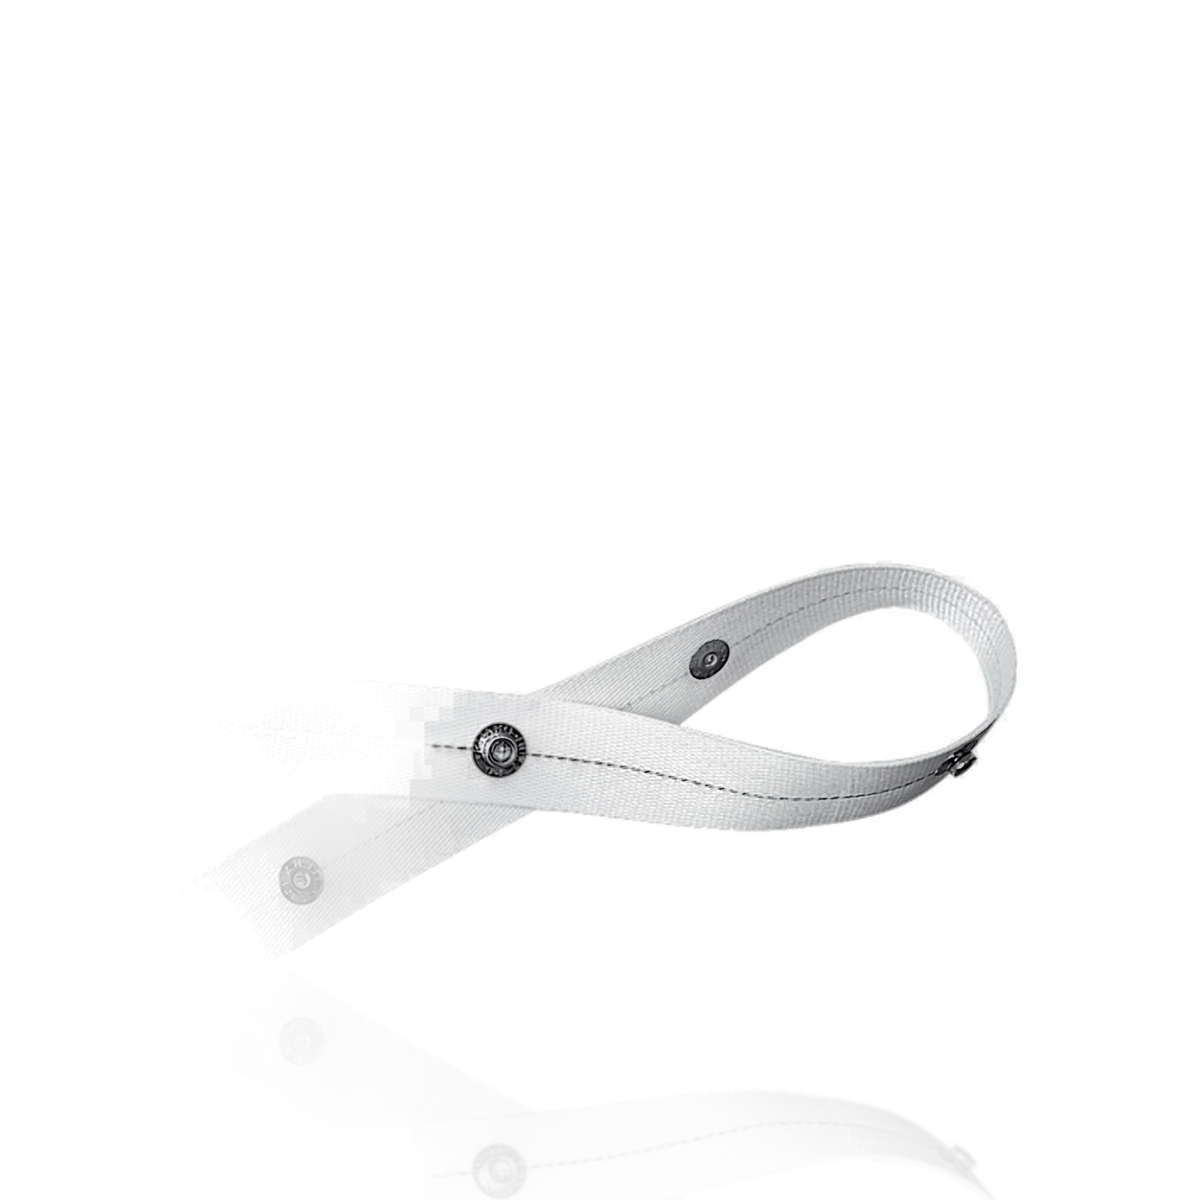
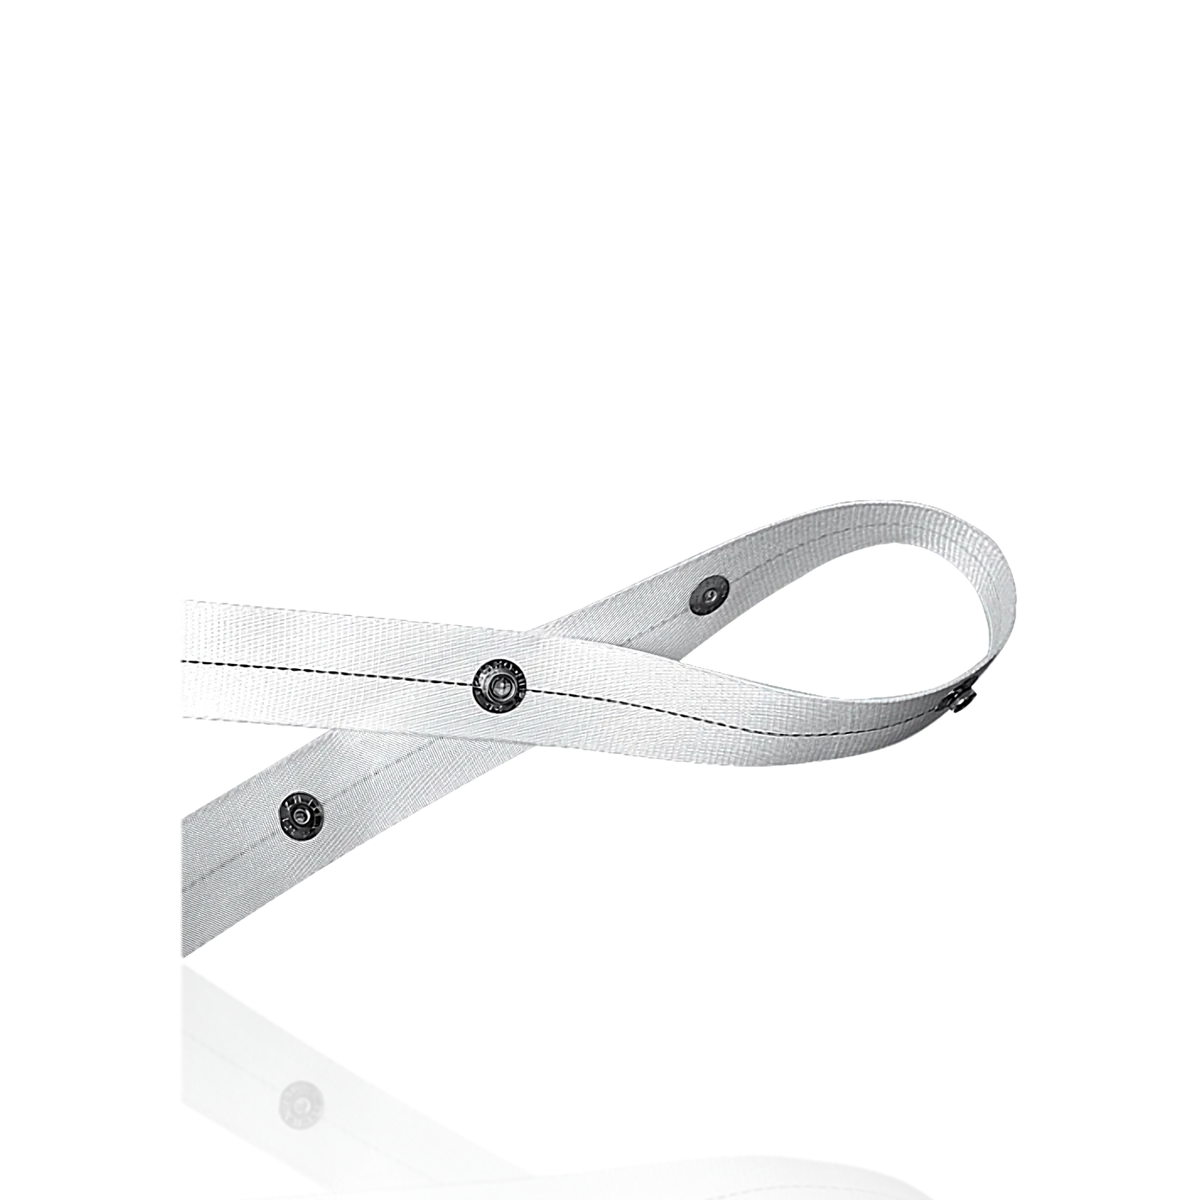
Fita Wave com Botões: recorte sólido e tecido branco
Peça branca em fundo branco ficava translúcida e acinzentada no tema
preto. tratar-fotos.py ganhou recorte por contraste com o branco puro
(FUNDO_CLARO) com clareamento leve do tecido.

Changed region(s): [[0.1542, 0.4008, 0.8633, 0.8017], [0.2158, 0.8942, 0.2775, 0.9558]]

diff --git a/tratar-fotos.py b/tratar-fotos.py
@@ -57,6 +57,9 @@ FUNDO_ESCURO = {
     'ilhos-piazza', 'ilhos-round', 'argola-massiccio',
     'apanhador-losangular', 'apanhador-oval',
 }
+# Peças brancas fotografadas sobre fundo branco: recorte pelo contraste com o branco
+# puro (o recorte automático deixa o tecido translúcido e acinzentado no fundo preto)
+FUNDO_CLARO = {'fita-wave-botoes'}
 # Banner com a linha completa de deslizantes lado a lado
 LINHA = ('linha-deslizantes', ['max-redondo', 'deslizante-click-clip', 'deslizante-wave', 'deslizante-terminal'])
 
@@ -121,6 +124,27 @@ def recortar_fundo_escuro(img_rgb):
                 a[rotulos == i] = 0
     alpha = Image.fromarray(a)
     out = img_rgb.convert('RGBA')
+    out.putalpha(alpha)
+    return out.crop(alpha.point(lambda v: 255 if v > 30 else 0).getbbox())
+
+
+def recortar_fundo_claro(img_rgb, limite=248):
+    im = np.asarray(img_rgb).astype(np.float32)
+    m = ((im.mean(axis=2) < limite) * 255).astype(np.uint8)
+    m[:, :6] = 0  # faixa cinza que às vezes sobra na borda do recorte do PDF
+    m = cv2.morphologyEx(m, cv2.MORPH_CLOSE, cv2.getStructuringElement(cv2.MORPH_ELLIPSE, (7, 7)))
+    m = cv2.morphologyEx(m, cv2.MORPH_OPEN, cv2.getStructuringElement(cv2.MORPH_ELLIPSE, (3, 3)))
+    n, rotulos, stats, _ = cv2.connectedComponentsWithStats(m)
+    if n > 1:
+        maior = stats[1:, cv2.CC_STAT_AREA].max()
+        for i in range(1, n):
+            if stats[i, cv2.CC_STAT_AREA] < maior * 0.03:
+                m[rotulos == i] = 0
+    alpha = Image.fromarray(m).filter(ImageFilter.GaussianBlur(0.8))
+    # clareia o tecido para ler como branco, preservando a costura e os botões
+    rgb = np.clip((im - 40) * (255 / 205), 0, 255)
+    rgb = np.where(im.mean(axis=2, keepdims=True) > 150, np.maximum(rgb, im), im)
+    out = Image.fromarray(rgb.astype(np.uint8)).convert('RGBA')
     out.putalpha(alpha)
     return out.crop(alpha.point(lambda v: 255 if v > 30 else 0).getbbox())
 
@@ -200,7 +224,12 @@ def main():
         img = Image.open(FOTOS / arquivo).convert('RGB')
         if caixa:
             img = img.crop(caixa)
-        prod = recortar_fundo_escuro(img) if nome in FUNDO_ESCURO else recortar(img, sessao)
+        if nome in FUNDO_ESCURO:
+            prod = recortar_fundo_escuro(img)
+        elif nome in FUNDO_CLARO:
+            prod = recortar_fundo_claro(img)
+        else:
+            prod = recortar(img, sessao)
         # amplia quando o produto ficaria menor que o quadro final
         if max(prod.width / (LADO * OCUPA_L), prod.height / (LADO * OCUPA_A)) < 1:
             prod = ampliar(prod, sr)
